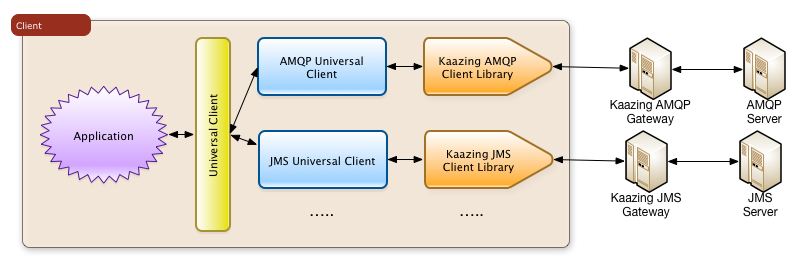
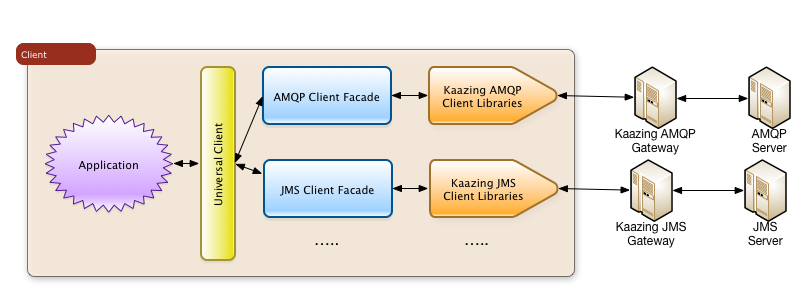
Added images and javascript write-up.

diff --git a/javascript/JavaScriptClient.md b/javascript/JavaScriptClient.md
@@ -1,1 +1,173 @@
-# Kaazing JavaScript Universal Client for javascript
+# Kaazing JavaScript Universal Client for JavaScript
+This library is intended to be used with 'plain JavaScript' application; it provides JavaScript function that returns an object that can be used in the client application to interact with Kaazing Gateway.
+
+## Using the Library
+- Install library with the Bower as specified [README document][1].
+- Add the following to the **\<head\>** section of your page:  
+	```html
+	
+	<head>  
+	....    
+	<script src="bower\_components/kaazing-javascript-universal-client/javascript/src/JavascriptUniversalClient.js"></script>
+	<script src="bower\_components/kaazing-javascript-universal-client/javascript/src/JmsClient.js"></script>
+	....  
+	</head>
+	```
+- Create an instance of the Universal Client Library.
+	```javascript
+	...
+	
+	var client=UniversalClientDef(protocol);
+	...
+	
+	```
+	Where:
+	- **protocol**: Specifies protocol that should be used for communications: jms - for communication with Kaazing JMS Gateway, amqp - for communication with Kaazing AMQP Gateway.
+
+- Establish connection within your controller
+	```javascript
+	...
+	
+	var client=UniversalClientDef(protocol);
+	...
+
+	$(document).ready(function () {
+		client.connect(url, username, password, topicP, topicS, noLocal, messageDestinationFuncHandle,loggerFuncHandle);
+		
+		...
+		
+	}
+	
+	```
+	Where:
+	- **url**: Connection URL (e.g. ws://localhost:8001/amqp or ws://localhost:8001/jms)
+	- **username**: User name to be used to establish connection
+	- **password**: User password to be used to establish connection
+	- **topicP**: Name of the publishing endpoint - AMQP exchange used for publishing or JMS Topic
+	- **topicS**: Name of the subscription endpoint - AMQP exchange used for subscription or JMS Topic
+	- **noLocal**: Flag indicating whether the client wants to receive its own messages (true) or not (false). That flag should be used when publishing and subscription endpoints are the same.
+	- **messageDestinationFuncHandle**: Function that will be used to process received messages from subscription endpoint in a format: _function(messageBody)_
+	- **loggerFuncHandle**: function that is used for logging events in a format of function(severity, message)
+- Add disconnect on window close (shown method uses JQuery):
+	```javascript
+	...
+	
+	var client=UniversalClientDef(protocol);
+	...
+
+	$(document).ready(function () {
+		client.connect(url, username, password, topicP, topicS, noLocal, messageDestinationFuncHandle,loggerFuncHandle);
+		
+		...
+		$( window ).unload(function() {
+            // Disconnect
+            client.disconnect();
+        });
+		
+	}
+
+	```
+- To send messages use sendMessage(msg) method
+	where _**msg**_ is message to be sent. If _**msg**_ is not a string it will be converted to JSON.
+	```javascript
+	...
+	
+	var client=UniversalClientDef(protocol);
+	...
+	
+	var sendMessage=function(msg){
+		// Send message
+    	client.sendMessage(msg);
+	}
+
+
+	$(document).ready(function () {
+		client.connect(url, username, password, topicP, topicS, noLocal, messageDestinationFuncHandle,loggerFuncHandle);
+		
+		...
+		$( window ).unload(function() {
+            // Disconnect
+            client.disconnect();
+        });
+		
+	}
+	```
+- When message is received, service will call a function registered as **messageDestinationFuncHandle** as shown above. E.g.  
+
+	```javascript
+	...
+	
+	var client=UniversalClientDef(protocol);
+	...
+	
+	var sendMessage=function(msg){
+		// Send message
+    	client.sendMessage(msg);
+	}
+
+	var processReceivedCommand=function(cmd){
+		// Process received message
+	}	
+
+	$(document).ready(function () {
+		client.connect(url, username, password, topicP, topicS, noLocal, processReceivedCommand,loggerFuncHandle);
+		
+		...
+		$( window ).unload(function() {
+            // Disconnect
+            client.disconnect();
+        });
+		
+	}	
+
+	```
+- To log WebSocket related events, specify the function as **loggerFuncHandle**. E.g.:  
+	```javascript
+	...
+	
+	var client=UniversalClientDef(protocol);
+	...
+	
+	var sendMessage=function(msg){
+		// Send message
+    	client.sendMessage(msg);
+	}
+
+	var processReceivedCommand=function(cmd){
+		// Process received message
+	}	
+	
+	var logWebSocketMessage = function (cls, msg) {
+		// Log WebSocket messages
+	}
+
+	$(document).ready(function () {
+		client.connect(url, username, password, topicP, topicS, noLocal, processReceivedCommand,logWebSocketMessage);
+		
+		...
+		$( window ).unload(function() {
+            // Disconnect
+            client.disconnect();
+        });
+		
+	}	
+	```
+
+## Organization of Kaazing JavaScript Universal Client   
+
+![][image-1]
+
+As shown on the diagram above, Kaazing Universal Client works as following:
+- Determine Client Library Facade based on the specified protocol
+- Download all necessary JavaScript libraries including the needed Client Library Facade using RequireJS.
+	- **Note** Due to certain limitations, RequireJS cannot download Kaazing JMSClient.js library - hence it has to be included in the \<head\> section
+- Instantiate required Client Facade Library that will interact with necessary Kaazing Javascript Client Libraries
+- Pass the data to and from the Kaazing Javascript Client libraries via instantiated Client Facade Library
+
+For more information about Client Facade libraries see 
+[AMQP Client Libraries Facade][2] and [JMS Client Libraries Facade][3].   
+
+[1]:	README.md
+[2]:	KaazingAMQPClientLibrariesFacade.md
+[3]:	KaazingJMSClientLibrariesFacade.md
+[image-1]:	images/JavascriptUniversalClient.png "Javascript Universal Client"

diff --git a/javascript/AngularJSClient.md b/javascript/AngularJSClient.md
@@ -15,7 +15,7 @@ This library is intended to be used with AngularJS application; it provides Angu
 	```
 - Register KaazingClientService module with your main controller  
 	```javascript
-	angular.module("\<your module name", 'KaazingClientService')
+	angular.module("<your module name", 'KaazingClientService')
 		.controller("<your controller name", function ($scope, ...,AngularUniversalClient) {  
 	
 	...  
@@ -24,7 +24,7 @@ This library is intended to be used with AngularJS application; it provides Angu
 	```
 - Establish connection within your controller
 	```javascript
-	angular.module("\<your module name", 'KaazingClientService')
+	angular.module("<your module name", 'KaazingClientService')
 		.controller("<your controller name", function ($scope, ...,AngularUniversalClient) {  
 	
 	
@@ -47,12 +47,12 @@ This library is intended to be used with AngularJS application; it provides Angu
 	- **loggerFuncHandle**: function that is used for logging events in a format of function(severity, message)
 - Add disconnect on window close (shown method uses JQuery):
 	```javascript
-	angular.module("\<your module name", 'KaazingClientService')
+	angular.module("<your module name", 'KaazingClientService')
 		.controller("<your controller name", function ($scope, ...,AngularUniversalClient) {  
 		...  
 	
 	
-		AngularUniversalClient.connect(proitocol,url,username, password, topicP, topicS, noLocal, messageDestinationFuncHandle, loggerFuncHandle );  
+		AngularUniversalClient.connect(protocol,url,username, password, topicP, topicS, noLocal, messageDestinationFuncHandle, loggerFuncHandle );  
 	
 	
 		...  
@@ -67,7 +67,7 @@ This library is intended to be used with AngularJS application; it provides Angu
 - To send messages use AngularUniversalClient.sendMessage(msg)  
 	where _**msg**_ is message to be sent. If _**msg**_ is not a string it will be converted to JSON.
 	```javascript
-	angular.module("\<your module name", 'KaazingClientService')
+	angular.module("<your module name", 'KaazingClientService')
 		.controller("<your controller name", function ($scope, ...,AngularUniversalClient) {  
 	
 	
@@ -100,7 +100,7 @@ This library is intended to be used with AngularJS application; it provides Angu
 - When message is received, service will call a function registered as **messageDestinationFuncHandle** as shown above. E.g.  
 
 	```javascript
-	angular.module("\<your module name", 'KaazingClientService')
+	angular.module("<your module name", 'KaazingClientService')
 		.controller("<your controller name", function ($scope, ...,AngularUniversalClient) {  
 	
 	
@@ -112,7 +112,7 @@ This library is intended to be used with AngularJS application; it provides Angu
 		}  
 	
 	
-		AngularUniversalClient.connect(proitocol,url,username, password, topicP, topicS, noLocal,$scope.processReceivedCommand, loggerFuncHandle );  
+		AngularUniversalClient.connect(protocol,url,username, password, topicP, topicS, noLocal,$scope.processReceivedCommand, loggerFuncHandle );  
 	
 	
 		...  
@@ -148,7 +148,7 @@ This library is intended to be used with AngularJS application; it provides Angu
 		    // Log WebSocket message   
 		}  
 		
-		AngularUniversalClient.connect(proitocol,url,username, password, topicP, topicS, noLocal,$scope.processReceivedCommand, $scope.logWebSocketMessage );  
+		AngularUniversalClient.connect(protocol,url,username, password, topicP, topicS, noLocal,$scope.processReceivedCommand, $scope.logWebSocketMessage );  
 		
 		...
 		  
@@ -168,6 +168,7 @@ This library is intended to be used with AngularJS application; it provides Angu
 	```
 
 ## Organization of Kaazing JavaScript Universal Client for AngularJS  
+![][image-1]
 
 As shown on the diagram above, Kaazing AngularJS Universal Client works as following:
 - Determine Client Library Facade based on the specified protocol
@@ -182,3 +183,4 @@ For more information about Client Facade libraries see
 [1]:	README.md
 [2]:	KaazingAMQPClientLibrariesFacade.md
 [3]:	KaazingJMSClientLibrariesFacade.md
+[image-1]:	images/AngularJSUniversalClient.png "AngularJS Universal Client"
